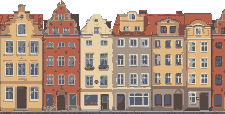
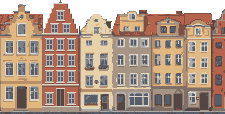
Old Town pilot: the red stepped-gable house built from stamped parts (tools/build_oldtown.py)
Claude-Session: https://claude.ai/code/session_01XTj4ZU5LiYuitJxc7TdBZF

Changed region(s): [[0.1867, 0.0, 0.3733, 0.9737]]

diff --git a/tools/build_oldtown.py b/tools/build_oldtown.py
@@ -1,0 +1,215 @@
+"""tools/build_oldtown.py: Downtown's Old Town row (riverwalk/art/scene/town_facades.png), houses BUILT from stamped
+parts (art/pilot-oldtown, 23 Oct 2026; docs/BIBLE.md section 3, the crispness bar).
+
+  python3 -I tools/build_oldtown.py [--check] [--parts out.png]
+
+Each repeated part (window, gable window, door, step of a stepped gable, cornice, string course, plinth) is drawn
+ONCE below as a small grid of colour roles, then stamped on an integer grid. Every window of a storey is the same
+part at the same height, evenly spaced; storeys are equal; walls are one flat fill with one shade band (the right
+edge, light from the upper left); every tread of a gable is the same step part. No resampling of any kind.
+
+The colours are the strip's own 12 (no new colour); each house maps the roles to them. The houses not rebuilt yet
+are kept pixel for pixel from source_scenery/town_facades_v06.png (the strip as it was on main v0.6), so the script
+regenerates the output exactly. --check: rebuild in memory and fail if the file on disk differs.
+
+The strip is decoration on the mid layer (scrolls 0.5, faded by the game): no outline, edges by a darker shade.
+"""
+import os, sys, argparse
+import numpy as np
+from PIL import Image
+
+ROOT = os.path.dirname(os.path.dirname(os.path.abspath(__file__)))
+BASE = os.path.join(ROOT, "source_scenery", "town_facades_v06.png")
+OUT = os.path.join(ROOT, "riverwalk", "art", "scene", "town_facades.png")
+
+# the strip's 12 colours (luma in brackets)
+C = dict(
+    yellow=(225, 184, 127),     # (190) plaster
+    red=(180, 99, 76),          # (121) plaster
+    stone=(166, 148, 132),      # (152) cornices, plinths, door frames
+    glass=(85, 94, 106),        # (93)
+    ochre=(184, 143, 107),      # (151) plaster / yellow's shade
+    umber=(127, 111, 102),      # (115) joints, roofs, door split
+    frame=(174, 171, 168),      # (172) window frames and glazing bars
+    cream=(231, 209, 166),      # (211) plaster
+    door=(84, 70, 66),          # (74)
+    slate=(123, 129, 136),      # (128)
+    brick=(128, 79, 67),        # (92) red's shade
+    light=(221, 213, 200),      # (214) lit stone: lintels, sills, cornice tops, gable coping
+)
+
+# ---- the parts, drawn once. Roles: W wall, S wall shade, L lit stone, T stone, F frame, G glass, K door leaf,
+# ---- D door split / joint, R roof; '.' leaves what is under it.
+WINDOW = [          # 7 x 11 window (2 x 2 panes of 2 x 4) with lintel, sill and the sill's shadow: 9 x 14
+    "LLLLLLLLL",
+    ".FFFFFFF.",
+    ".FGGFGGF.",
+    ".FGGFGGF.",
+    ".FGGFGGF.",
+    ".FGGFGGF.",
+    ".FFFFFFF.",
+    ".FGGFGGF.",
+    ".FGGFGGF.",
+    ".FGGFGGF.",
+    ".FGGFGGF.",
+    ".FFFFFFF.",
+    "LLLLLLLLL",
+    "SSSSSSSSS",
+]
+GABLE_WINDOW = [    # 7 x 9 attic window (2 x 2 panes of 2 x 3): 9 x 12
+    "LLLLLLLLL",
+    ".FFFFFFF.",
+    ".FGGFGGF.",
+    ".FGGFGGF.",
+    ".FGGFGGF.",
+    ".FFFFFFF.",
+    ".FGGFGGF.",
+    ".FGGFGGF.",
+    ".FGGFGGF.",
+    ".FFFFFFF.",
+    "LLLLLLLLL",
+    "SSSSSSSSS",
+]
+GABLE_WINDOW_ON_CORNICE = GABLE_WINDOW[:10]   # the cornice below is its sill
+DOOR = ["LLLLLLLLL"] + ["TKKKDKKKT"] * 17       # 7 x 17 double door in a stone frame: 9 x 18
+STEP_L = ["LL", "L.", "L.", "L.", "L."]           # a gable step, left side: lit tread and riser (2 x 5)
+STEP_R = ["LL", ".S", ".S", ".S", ".S"]           # right side: lit tread, riser in shade
+TOP_BLOCK_EDGE_L = ["L", "L", "L", "L", "L"]
+CORNICE = ["L", "T", "S"]                         # rows: lit top, stone, the shadow it casts on the wall
+STRING = ["L", "T", "S"]
+PLINTH = ["L", "T", "T", "T", "T"]
+FINIAL = [".D.", ".D.", "DDD"]
+
+PARTS = dict(window=WINDOW, gable_window=GABLE_WINDOW, door=DOOR, step_l=STEP_L, step_r=STEP_R,
+             cornice=CORNICE, plinth=PLINTH, finial=FINIAL)
+
+class Canvas:
+    def __init__(self, w, h):
+        self.w, self.h = w, h
+        self.role = np.full((h, w), ".", dtype="<U1")
+    def put(self, x, y, role):
+        if 0 <= x < self.w and 0 <= y < self.h: self.role[y, x] = role
+    def rect(self, x0, y0, x1, y1, role):          # inclusive
+        self.role[max(0, y0):y1 + 1, max(0, x0):x1 + 1] = role
+    def stamp(self, part, x, y):
+        for dy, row in enumerate(part):
+            for dx, ch in enumerate(row):
+                if ch != ".": self.put(x + dx, y + dy, ch)
+    def row(self, part, x0, x1, y):                 # a horizontal band: each part row across x0..x1
+        for dy, row in enumerate(part): self.rect(x0, y + dy, x1, y + dy, row[0])
+
+def build_house(h):
+    """h: a house spec -> (x0, canvas of roles, role -> colour)"""
+    x0, x1 = h["x0"], h["x1"]
+    W = x1 - x0 + 1
+    cv = Canvas(W, 111)                              # rows 0..110; row 111 on is the pavement (kept)
+    cx = (W - 1) // 2 if W % 2 else None             # the centre column (local)
+    top = h["cornice"]                               # first row of the main cornice
+    # the body: joint on the left, flat wall, one shade band on the right (light from the upper left)
+    cv.rect(0, top, W - 1, 110, "W")
+    cv.rect(0, top, 0, 110, "D")
+    cv.rect(W - 1, top, W - 1, 110, "S")
+    # the gable: levels of equal height, each narrower by the same step; every step is the same part
+    g = h.get("gable")
+    if g:
+        lv_h, step_w, n, hw0 = g["level_h"], g["step_w"], g["levels"], g["top_hw"]
+        y_top = top - lv_h * n                       # top row of the top block
+        # the roof behind, one 45 degree slope each side from the body's corners up to the gable
+        if g.get("roof") is not None:
+            ry, rx0, rx1 = g["roof"], g["roof_x0"], g["roof_x1"]   # the slope starts at (rx0, ry) and (rx1, ry)
+            for y in range(top):
+                for x in range(rx0, rx1 + 1):
+                    if y >= ry - min(x - rx0, rx1 - x): cv.put(x, y, "R")
+            for x in g.get("roof_cols", []): cv.rect(x, ry, x, top - 1, "R")
+        for k in range(n):                           # k = 0 is the top block
+            hw = hw0 + step_w * k
+            y0 = y_top + lv_h * k
+            cv.rect(cx - hw, y0, cx + hw, y0 + lv_h - 1, "W")
+        for k in range(n):
+            hw = hw0 + step_w * k
+            y0 = y_top + lv_h * k
+            if k == 0:
+                cv.rect(cx - hw, y0, cx + hw, y0, "L")
+                cv.stamp(TOP_BLOCK_EDGE_L, cx - hw, y0)
+                cv.stamp([".S"] * lv_h, cx + hw - 1, y0); cv.put(cx + hw, y0, "L")
+            else:
+                cv.stamp(STEP_L, cx - hw, y0)
+                cv.stamp(STEP_R, cx + hw - 1, y0)
+        cv.stamp(FINIAL, cx - 1, y_top - 3)
+        for (wx, wy, part) in g.get("windows", []):
+            cv.stamp(PARTS[part] if isinstance(part, str) else part, wx, wy)
+    # cornice, string course, plinth: full-width bands
+    cv.row(CORNICE, 0, W - 1, top)
+    if h.get("string") is not None: cv.row(STRING, 0, W - 1, h["string"])
+    cv.row(PLINTH, 0, W - 1, 106)
+    # the storeys: one window part, stamped at the same columns on every storey, equal storey heights
+    for y in h["storeys"]:
+        for x in h["cols"]: cv.stamp(WINDOW, x - 1, y - 1)
+    # the ground floor
+    gf = h["ground"]
+    for x in gf.get("cols", []): cv.stamp(WINDOW, x - 1, gf["win_y"] - 1)
+    if "door" in gf: cv.stamp(DOOR, gf["door"] - 1, gf["door_y"] - 1)
+    return x0, cv, {k: C[v] for k, v in h["colours"].items()}
+
+# ---- the houses (x on the strip; the strip is 225 x 114 and repeats)
+HOUSES = {
+    # the red stepped-gable house (the pilot): 37 px, 3 storeys of 16 px, a gable of 6 levels of 5 px with
+    # treads of 2 px, two attic windows on the cornice and one above
+    "red_gable": dict(
+        x0=42, x1=78, cornice=33, string=84,
+        cols=[4, 15, 26],                                   # window columns (local x of the frame's left)
+        storeys=[39, 55, 71],                               # each storey's window top (frame row)
+        ground=dict(cols=[4, 26], win_y=93, door=15, door_y=89),
+        gable=dict(level_h=5, step_w=2, levels=6, top_hw=7,
+                   windows=[(8, 23, GABLE_WINDOW_ON_CORNICE), (20, 23, GABLE_WINDOW_ON_CORNICE),
+                            (14, 10, "gable_window")]),
+        colours=dict(W="red", S="brick", L="light", T="stone", F="frame", G="glass", K="door", D="umber",
+                     R="umber"),
+        # the old house's pixels cleared before the new one goes in: rows 33 on x 42..78, above that x 43..78
+        clear=[(42, 33, 78, 110), (43, 0, 78, 32)],
+    ),
+}
+
+def render(names=None):
+    base = np.array(Image.open(BASE).convert("RGBA"))
+    out = base.copy()
+    for name, h in HOUSES.items():
+        if names and name not in names: continue
+        for (a0, b0, a1, b1) in h["clear"]: out[b0:b1 + 1, a0:a1 + 1] = 0
+        x0, cv, pal = build_house(h)
+        for y in range(cv.h):
+            for x in range(cv.w):
+                r = cv.role[y, x]
+                if r == ".": continue
+                out[y, x0 + x] = (*pal[r], 255)
+    return base, out
+
+def house_alone(name):
+    """one house on its own (transparent around it), as the parts build it: for asset_qa and the cards"""
+    x0, cv, pal = build_house(HOUSES[name])
+    im = np.zeros((cv.h, cv.w, 4), np.uint8)
+    for y in range(cv.h):
+        for x in range(cv.w):
+            if cv.role[y, x] != ".": im[y, x] = (*pal[cv.role[y, x]], 255)
+    return im
+
+if __name__ == "__main__":
+    ap = argparse.ArgumentParser()
+    ap.add_argument("--check", action="store_true", help="fail if the file on disk is not what the script builds")
+    ap.add_argument("--house", help="also write one house's crop (rows 0-110) to this path, as NAME=path")
+    o = ap.parse_args()
+    base, out = render()
+    cols0 = set(map(tuple, base[base[..., 3] > 0][:, :3].tolist()))
+    cols1 = set(map(tuple, out[out[..., 3] > 0][:, :3].tolist()))
+    assert cols1 <= cols0, "a new colour"
+    assert set(np.unique(out[..., 3]).tolist()) <= {0, 255}, "semi-transparent pixels"
+    if o.check:
+        disk = np.array(Image.open(OUT).convert("RGBA"))
+        ok = disk.shape == out.shape and (disk == out).all()
+        print("town_facades.png", "matches the build" if ok else "DIFFERS from the build"); sys.exit(0 if ok else 1)
+    Image.fromarray(out).save(OUT)
+    print(f"town_facades.png: {int((out != base).any(2).sum())} px rebuilt, {len(cols1)} colours")
+    if o.house:
+        n, p = o.house.split("=", 1)
+        Image.fromarray(house_alone(n)).save(p)
+        print(f"{n}: {p}")

diff --git a/CHANGELOG.md b/CHANGELOG.md
@@ -2,6 +2,21 @@
 
 Each delivered build is a git tag. `git checkout v0.1` goes back to any of them.
 
+## Branch `art/pilot-oldtown`: Downtown's Old Town row built from stamped parts, pilot house (23 Oct)
+Built on main v0.6 (1b5a30f). 0 credits, no generation, no resampling, no new colour (the strip's own 12), alpha binary.
+Aseprite was not built yet on this machine, so the build is a script.
+- **tools/build_oldtown.py** builds `riverwalk/art/scene/town_facades.png` from parts drawn once (window 7 x 11 with
+  lintel, sill and its shadow; attic window 7 x 9; double door; gable step; cornice, string course, plinth) and
+  stamped on an integer grid; the houses not rebuilt yet come pixel for pixel from
+  **source_scenery/town_facades_v06.png** (the strip as on v0.6). `--check` fails if the file differs from the build;
+  `--house NAME=path` writes one house alone for asset_qa and the card.
+- **Pilot: the red stepped-gable house** (x 42-78): 3 storeys of 16 px, 3 identical windows per storey 4 px apart, the
+  ground floor's 2 windows and door on the same columns, a gable as wide as the wall of 6 levels of 5 px with 2 px
+  treads, 3 attic windows; flat wall with one shade band (right edge), light from the upper left. asset_qa
+  (`--building`, mid, dt): WARN (contrast 106, as the old row's 103), lone pixels 0.0 %, every storey's windows
+  identical, 8 colours. The row's lone pixels 1.9 % -> 1.5 %; the row still fails on the other houses' windows.
+- **Checks:** check_pepper PEPPER UNCHANGED (4591 steps), check_flow 116 of 116.
+
 ## Regroup (23 Oct, evening): main v0.6, BIBLE and STATUS, the enforced gate, checks and releases on GitHub
 The owner's decisions of 23 Oct (merge list): round1 becomes main as v0.6; art/freefix merged with the approved River
 Walk building, cafe and gable kept unchanged; art/haze merged with Downtown's facades at 0.25 (was 0.10 on the branch)
